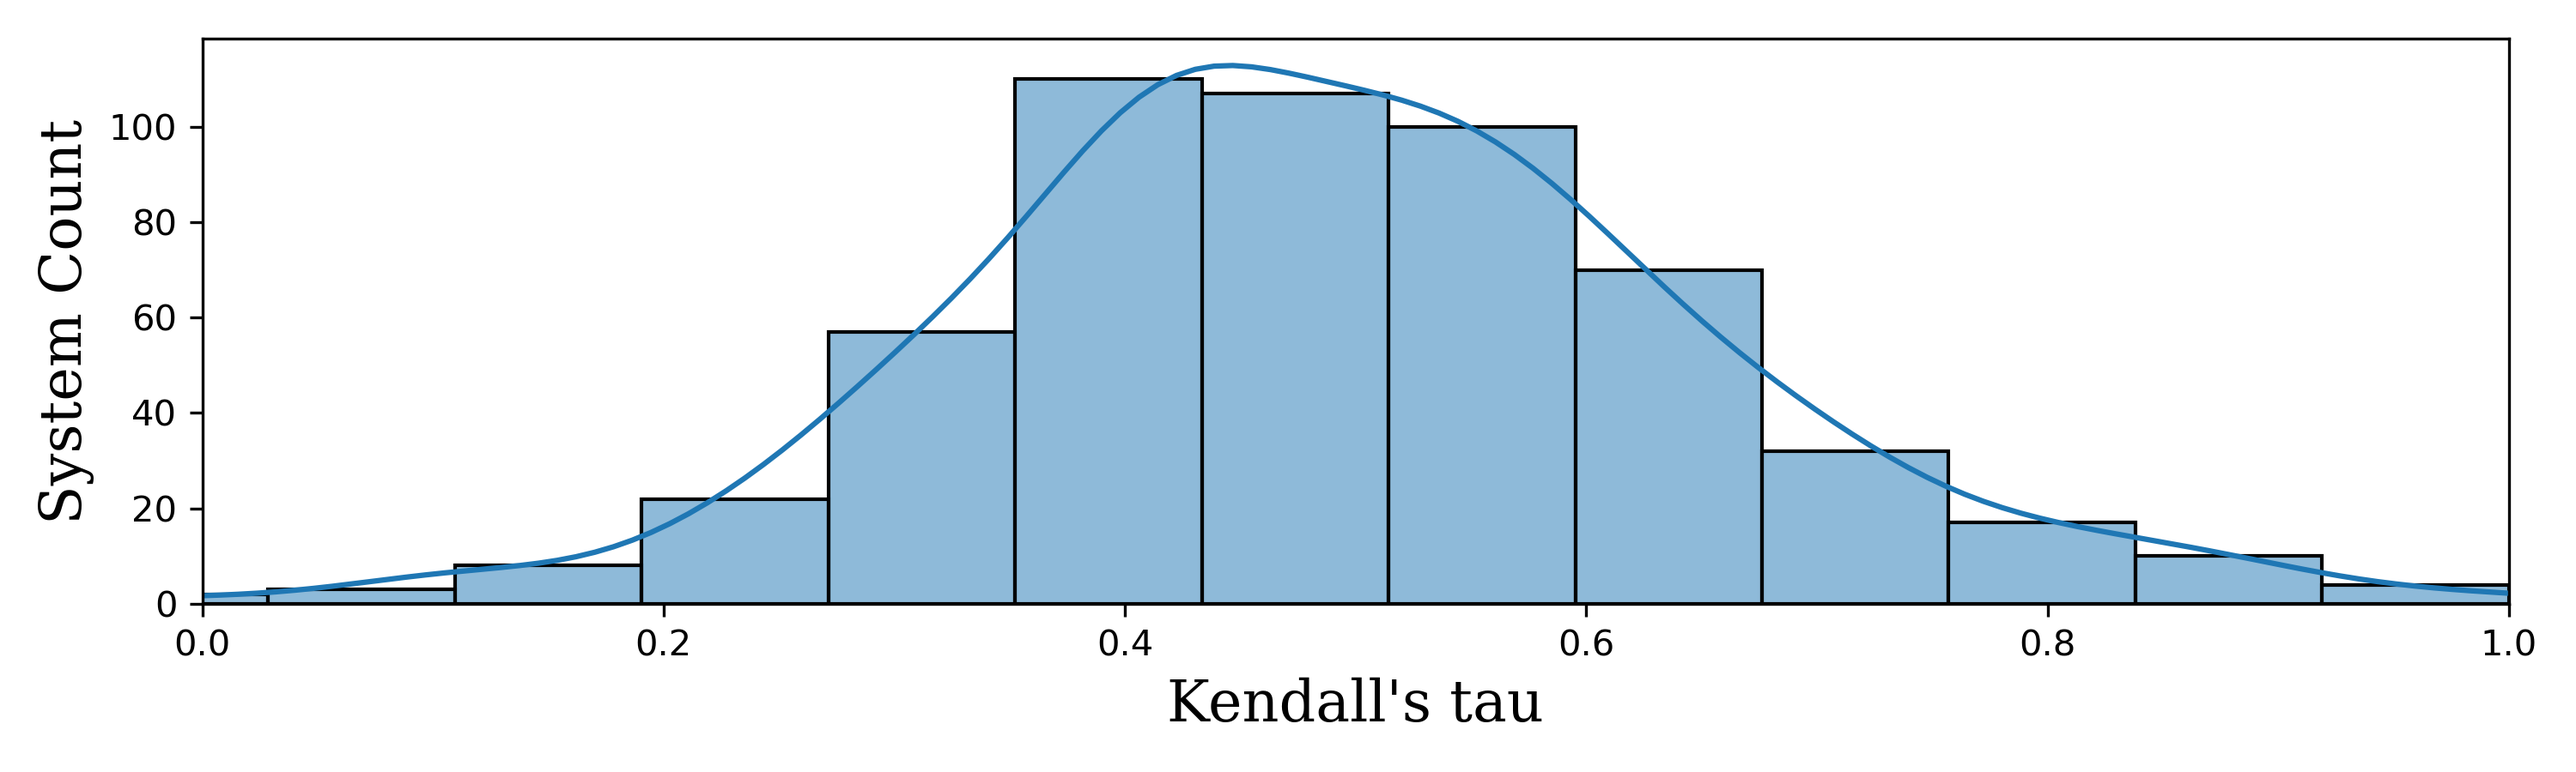
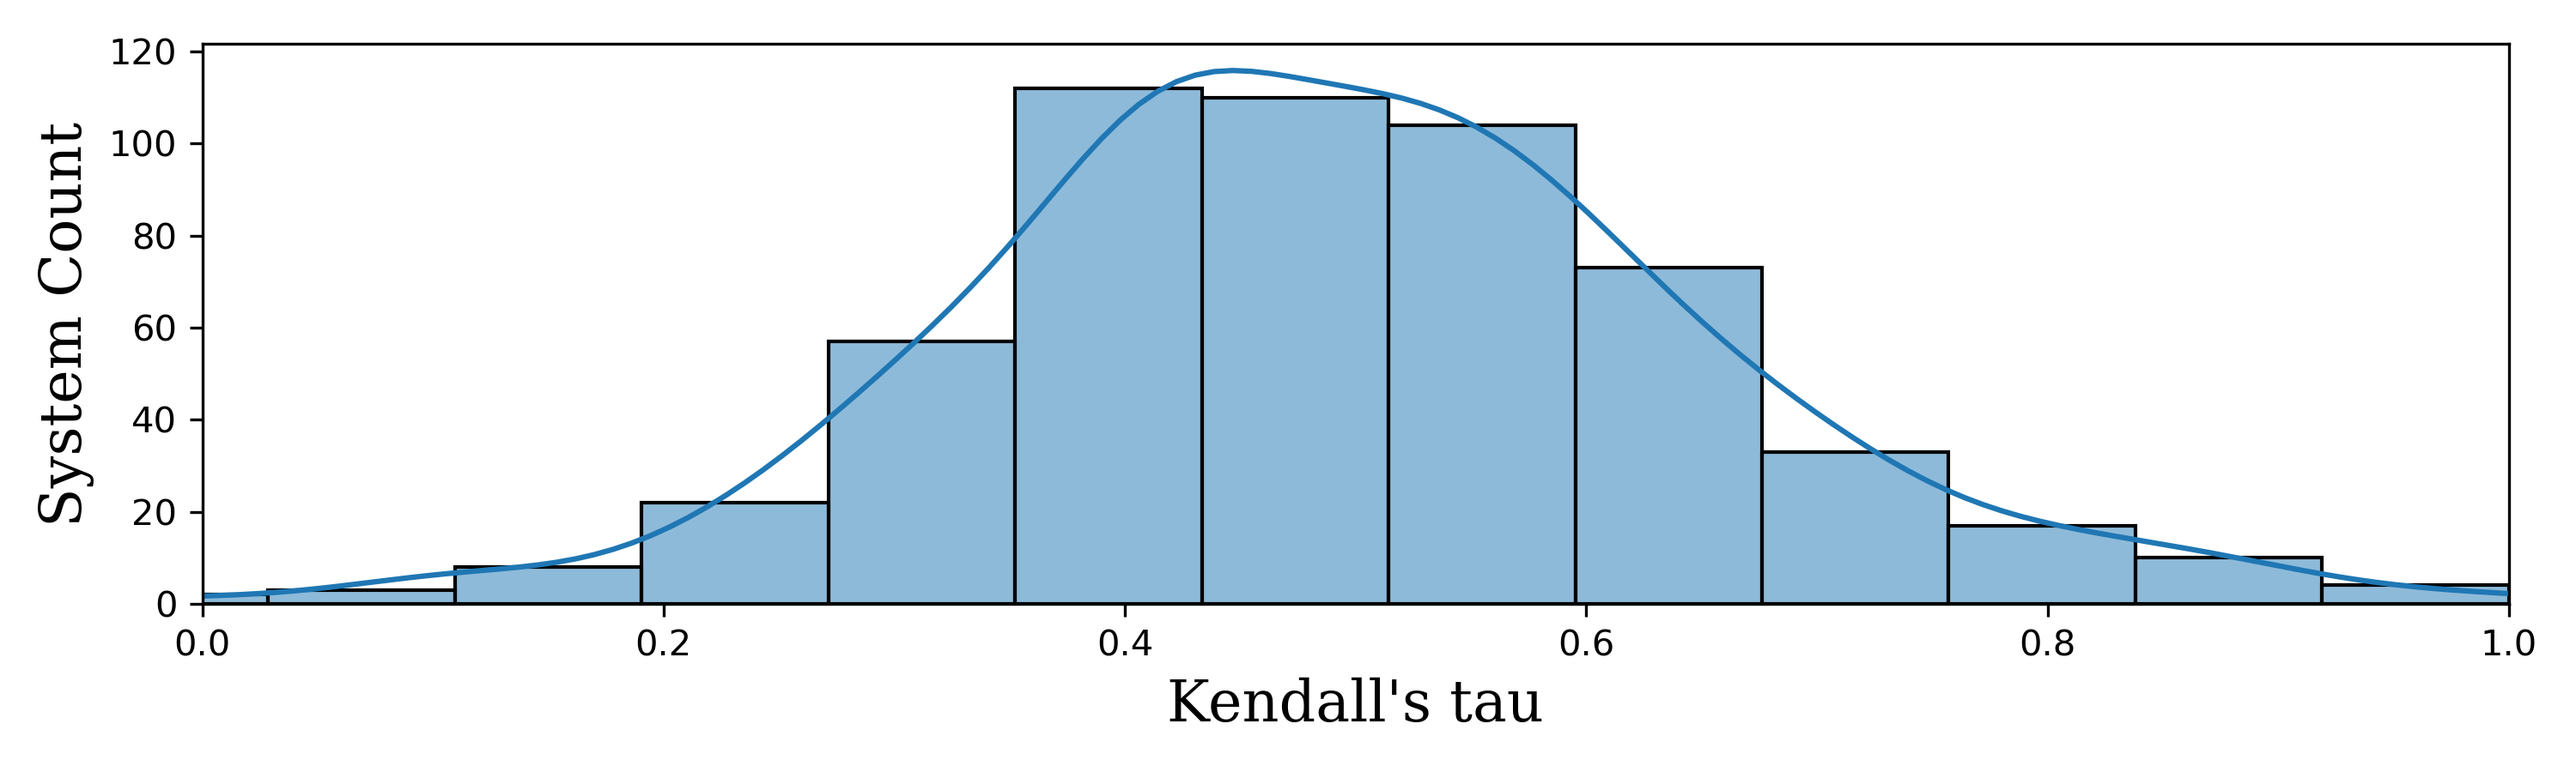
Refresh benchmark summary after weekly ChEMBL upload.

diff --git a/README.md b/README.md
@@ -34,8 +34,8 @@ For more details, please refer to our [FEP Open Challenge introduction](https://
 
 
 ## Summary of Benchmark Results
-**Total Systems**: 543  
-**Total Ligands**: 10502
+**Total Systems**: 556  
+**Total Ligands**: 10733
 ![RMSE Distribution](rmse_distribution.png)
 ![Kendall's tau Distribution](tau_distribution.png)
 | Series | Target | N_Ligands | RMSE (kcal/mol) | R² | Kendall's tau | Description |
@@ -110,6 +110,7 @@ For more details, please refer to our [FEP Open Challenge introduction](https://
 | ChEMBL | BTK | 45 | 0.93 | 0.19 | 0.35 | CHEMBL3627421 |
 | ChEMBL | BTK | 18 | 1.66 | 0.65 | 0.59 | CHEMBL4057948 |
 | ChEMBL | BTK | 24 | 0.86 | 0.57 | 0.56 | CHEMBL4201924 |
+| ChEMBL | BTK | 28 | 1.30 | 0.53 | 0.54 | CHEMBL4822448 |
 | ChEMBL | BTK | 15 | 0.43 | 0.96 | 0.89 | CHEMBL5031679 |
 | ChEMBL | BTK | 43 | 1.28 | 0.25 | 0.39 | CHEMBL5098382 |
 | ChEMBL | CALCRL | 30 | 0.81 | 0.47 | 0.47 | CHEMBL1772121 |
@@ -131,6 +132,7 @@ For more details, please refer to our [FEP Open Challenge introduction](https://
 | ChEMBL | CDK2 | 21 | 0.80 | 0.22 | 0.39 | CHEMBL992478 |
 | ChEMBL | CDK8 | 45 | 1.94 | 0.28 | 0.26 | CHEMBL3803436 |
 | ChEMBL | CFD | 42 | 1.64 | 0.55 | 0.58 | CHEMBL5217731 |
+| ChEMBL | CHEK1 | 11 | 1.46 | 0.63 | 0.60 | CHEMBL1930050 |
 | ChEMBL | CHEK1 | 31 | 1.91 | 0.63 | 0.47 | CHEMBL2014248 |
 | ChEMBL | CHEK1 | 25 | 1.41 | 0.52 | 0.44 | CHEMBL2014579 |
 | ChEMBL | CHEK1 | 8 | 1.67 | 0.30 | 0.40 | CHEMBL3381275 |
@@ -253,6 +255,8 @@ For more details, please refer to our [FEP Open Challenge introduction](https://
 | ChEMBL | IGF1R | 9 | 1.08 | 0.38 | 0.54 | CHEMBL1045057 |
 | ChEMBL | IGF1R | 11 | 1.03 | 0.49 | 0.53 | CHEMBL3424980 |
 | ChEMBL | IRAK4 | 15 | 0.91 | 0.78 | 0.71 | CHEMBL3737182 |
+| ChEMBL | IRAK4 | 20 | 0.91 | 0.67 | 0.61 | CHEMBL3887963|g1 |
+| ChEMBL | IRAK4 | 20 | 1.17 | 0.52 | 0.44 | CHEMBL3887963|g3 |
 | ChEMBL | IRAK4 | 19 | 0.84 | 0.50 | 0.58 | CHEMBL4015947 |
 | ChEMBL | IRAK4 | 37 | 1.17 | 0.57 | 0.50 | CHEMBL4047622 |
 | ChEMBL | IRAK4 | 14 | 1.26 | 0.48 | 0.53 | CHEMBL4323523 |
@@ -295,6 +299,7 @@ For more details, please refer to our [FEP Open Challenge introduction](https://
 | ChEMBL | KIF11 | 10 | 1.49 | 0.33 | 0.42 | CHEMBL942113 |
 | ChEMBL | KLK3 | 26 | 1.01 | 0.61 | 0.64 | CHEMBL4844448 |
 | ChEMBL | KLK7 | 17 | 0.74 | 0.18 | 0.39 | CHEMBL4125121 |
+| ChEMBL | LCK | 8 | 1.48 | 0.47 | 0.43 | CHEMBL4308758 |
 | ChEMBL | LCK | 19 | 0.93 | 0.36 | 0.34 | CHEMBL902547 |
 | ChEMBL | LCK | 11 | 0.59 | 0.74 | 0.64 | CHEMBL903614 |
 | ChEMBL | LCK | 32 | 1.98 | 0.31 | 0.40 | CHEMBL913225 |
@@ -347,7 +352,9 @@ For more details, please refer to our [FEP Open Challenge introduction](https://
 | ChEMBL | MAPK14 | 17 | 1.03 | 0.58 | 0.66 | CHEMBL929947 |
 | ChEMBL | MAPK14 | 5 | 0.96 | 0.57 | 0.40 | CHEMBL983811 |
 | ChEMBL | MAPK14 | 13 | 1.93 | 0.33 | 0.41 | CHEMBL997720 |
+| ChEMBL | MAPK1 | 20 | 1.20 | 0.90 | 0.68 | CHEMBL3631082 |
 | ChEMBL | MAPK1 | 21 | 1.03 | 0.38 | 0.45 | CHEMBL4425912 |
+| ChEMBL | MAPK1 | 26 | 1.04 | 0.53 | 0.51 | CHEMBL917079 |
 | ChEMBL | MAPK7 | 26 | 0.99 | 0.38 | 0.37 | CHEMBL5166085 |
 | ChEMBL | MAPK8 | 29 | 0.95 | 0.37 | 0.43 | CHEMBL2429340 |
 | ChEMBL | MAPK8 | 15 | 0.78 | 0.74 | 0.58 | CHEMBL3705344|g2 |
@@ -436,17 +443,22 @@ For more details, please refer to our [FEP Open Challenge introduction](https://
 | ChEMBL | PIK3CA | 27 | 1.80 | 0.31 | 0.41 | CHEMBL3116932 |
 | ChEMBL | PIK3CA | 27 | 1.64 | 0.26 | 0.17 | CHEMBL3611486 |
 | ChEMBL | PIK3CA | 21 | 1.72 | 0.41 | 0.50 | CHEMBL4360966 |
+| ChEMBL | PIK3CA | 11 | 0.61 | 0.70 | 0.55 | CHEMBL4410952 |
 | ChEMBL | PIK3CA | 31 | 0.87 | 0.58 | 0.55 | CHEMBL5153851 |
 | ChEMBL | PIK3CA | 15 | 1.61 | 0.22 | 0.26 | CHEMBL887586 |
 | ChEMBL | PIK3CG | 22 | 0.97 | 0.24 | 0.42 | CHEMBL1065056 |
 | ChEMBL | PIK3CG | 9 | 0.63 | 0.79 | 0.67 | CHEMBL1108628 |
 | ChEMBL | PIK3CG | 10 | 1.04 | 0.50 | 0.47 | CHEMBL2174949 |
 | ChEMBL | PIM1 | 16 | 0.95 | 0.47 | 0.48 | CHEMBL1022925 |
+| ChEMBL | PIM1 | 15 | 0.76 | 0.51 | 0.53 | CHEMBL1059319|g3 |
+| ChEMBL | PIM1 | 16 | 0.70 | 0.66 | 0.61 | CHEMBL1059319|g4 |
 | ChEMBL | PIM1 | 12 | 0.77 | 0.55 | 0.50 | CHEMBL2038828 |
 | ChEMBL | PIM1 | 14 | 1.72 | 0.36 | 0.42 | CHEMBL2149642 |
 | ChEMBL | PIM1 | 17 | 1.99 | 0.60 | 0.50 | CHEMBL3106177 |
 | ChEMBL | PIM1 | 35 | 1.21 | 0.52 | 0.57 | CHEMBL3301295 |
 | ChEMBL | PIM1 | 13 | 1.28 | 0.69 | 0.71 | CHEMBL3376646 |
+| ChEMBL | PIM1 | 20 | 1.27 | 0.56 | 0.37 | CHEMBL3705754|g9 |
+| ChEMBL | PIM1 | 18 | 0.92 | 0.46 | 0.47 | CHEMBL3864805|g1 |
 | ChEMBL | PIM1 | 17 | 1.37 | 0.48 | 0.41 | CHEMBL3887608 |
 | ChEMBL | PIM1 | 20 | 0.89 | 0.57 | 0.49 | CHEMBL3888377|g6 |
 | ChEMBL | PIM1 | 16 | 1.10 | 0.43 | 0.38 | CHEMBL3888377|g8 |
@@ -511,6 +523,7 @@ For more details, please refer to our [FEP Open Challenge introduction](https://
 | ChEMBL | STK3 | 8 | 0.71 | 0.42 | 0.64 | CHEMBL3395732 |
 | ChEMBL | SYK | 21 | 1.56 | 0.29 | 0.31 | CHEMBL1838853 |
 | ChEMBL | SYK | 19 | 0.77 | 0.44 | 0.49 | CHEMBL2350855|g1 |
+| ChEMBL | SYK | 18 | 1.39 | 0.67 | 0.54 | CHEMBL3887423|g2 |
 | ChEMBL | SYK | 21 | 0.76 | 0.28 | 0.11 | CHEMBL945309 |
 | ChEMBL | TEK | 24 | 1.98 | 0.24 | 0.36 | CHEMBL908503 |
 | ChEMBL | TNKS | 9 | 0.72 | 0.84 | 0.87 | CHEMBL2384487 |
